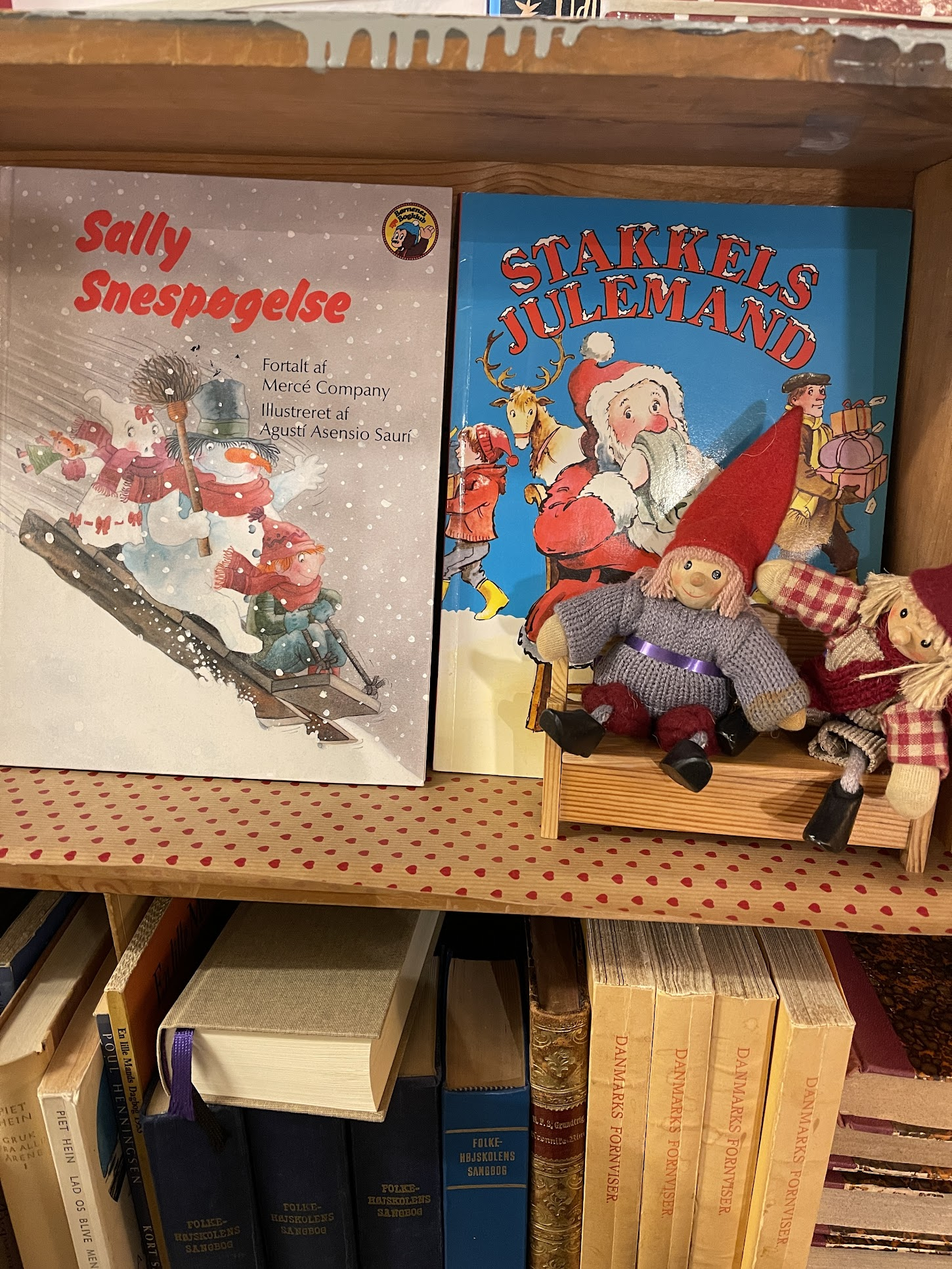
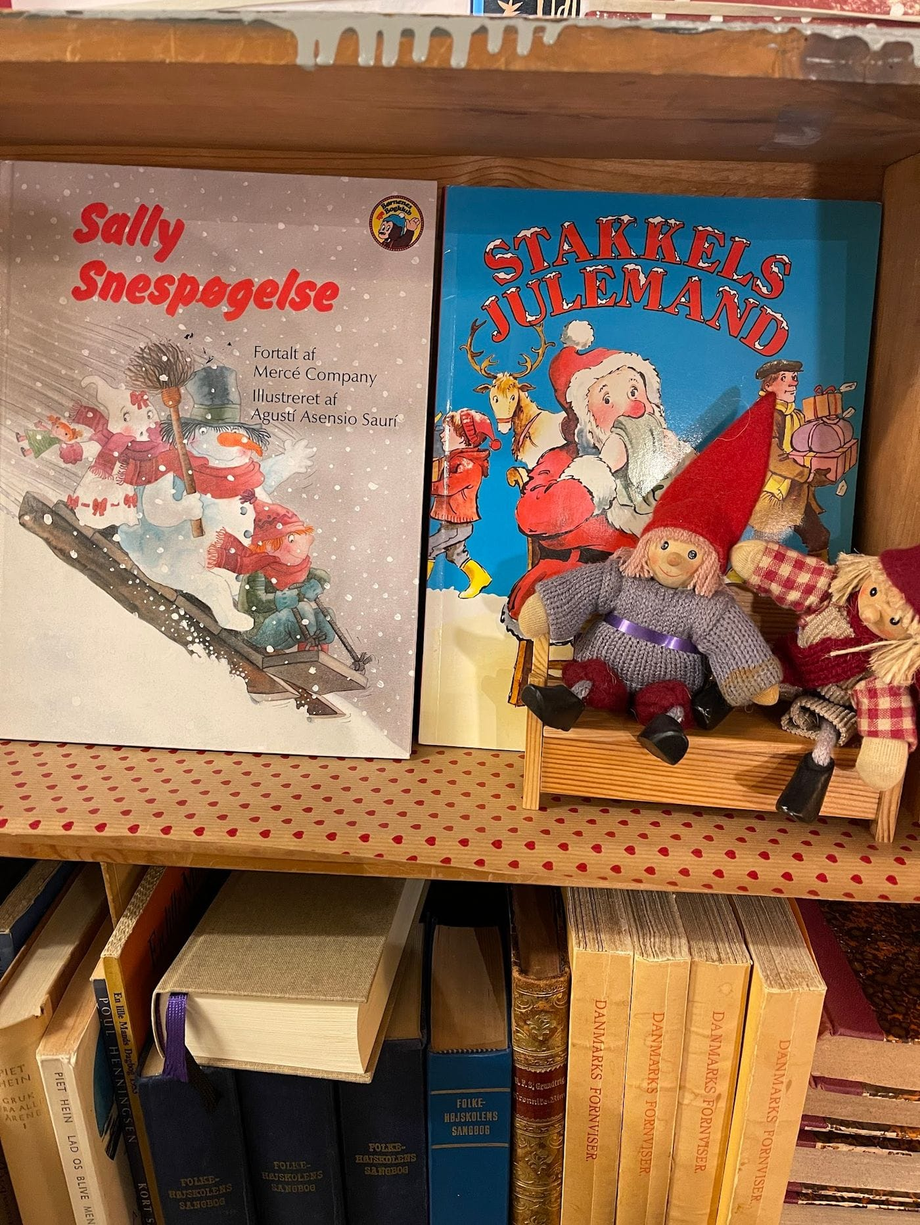
Reduce image file sizes

diff --git a/scripts/compress-photos.js b/scripts/compress-photos.js
@@ -1,0 +1,69 @@
+#!/usr/bin/env node
+/**
+ * Compresses full-size photos in /photos in place.
+ * JPEGs are re-encoded at quality 80 with mozjpeg.
+ * PNGs are re-encoded at max compression/effort (lossless).
+ * Subdirectories (e.g. thumbnails/) are not touched.
+ *
+ * Usage: node compress-photos.js [--dry-run]
+ *   --dry-run  Report file sizes without modifying anything
+ */
+
+import sharp from 'sharp';
+import { readdir, stat, writeFile } from 'fs/promises';
+import { join, extname } from 'path';
+import { fileURLToPath } from 'url';
+
+const __dirname = fileURLToPath(new URL('.', import.meta.url));
+const PHOTOS_DIR = join(__dirname, '../photos');
+const PHOTO_EXTENSIONS = new Set(['.jpg', '.jpeg', '.png', '.webp']);
+
+const dryRun = process.argv.includes('--dry-run');
+
+async function compress(filePath, ext) {
+  const image = sharp(filePath);
+  if (ext === '.png') {
+    return image.png({ compressionLevel: 9, effort: 10 }).toBuffer();
+  } else {
+    return image.jpeg({ quality: 80, mozjpeg: true }).toBuffer();
+  }
+}
+
+async function main() {
+  const entries = await readdir(PHOTOS_DIR, { withFileTypes: true });
+  const photos = entries
+    .filter(e => e.isFile() && PHOTO_EXTENSIONS.has(extname(e.name).toLowerCase()))
+    .map(e => e.name);
+
+  let totalBefore = 0;
+  let totalAfter = 0;
+
+  for (const file of photos) {
+    const filePath = join(PHOTOS_DIR, file);
+    const ext = extname(file).toLowerCase();
+    const { size: sizeBefore } = await stat(filePath);
+    totalBefore += sizeBefore;
+
+    if (dryRun) {
+      console.log(`  ${file} (${(sizeBefore / 1024).toFixed(1)}KB)`);
+      totalAfter += sizeBefore;
+      continue;
+    }
+
+    process.stdout.write(`  ${file} (${(sizeBefore / 1024).toFixed(1)}KB → `);
+    const buf = await compress(filePath, ext);
+    await writeFile(filePath, buf);
+    totalAfter += buf.length;
+    console.log(`${(buf.length / 1024).toFixed(1)}KB)`);
+  }
+
+  const savedMB = ((totalBefore - totalAfter) / (1024 * 1024)).toFixed(1);
+  const beforeMB = (totalBefore / (1024 * 1024)).toFixed(1);
+  const afterMB = (totalAfter / (1024 * 1024)).toFixed(1);
+  console.log(`\nTotal: ${beforeMB}MB → ${afterMB}MB (saved ${savedMB}MB)`);
+}
+
+main().catch(err => {
+  console.error(err);
+  process.exit(1);
+});

diff --git a/scripts/resize-photo.js b/scripts/resize-photo.js
@@ -1,0 +1,61 @@
+#!/usr/bin/env node
+/**
+ * Resizes a single photo in /photos to a specified width.
+ * Optionally converts the file to JPEG.
+ *
+ * Usage: node resize-photo.js <filename> <width> [--to-jpg]
+ *
+ * Examples:
+ *   node resize-photo.js harbor-ice.jpg 800
+ *   node resize-photo.js screenshot.png 1200 --to-jpg
+ */
+
+import sharp from 'sharp';
+import { writeFile, unlink } from 'fs/promises';
+import { join, extname, basename } from 'path';
+import { fileURLToPath } from 'url';
+
+const __dirname = fileURLToPath(new URL('.', import.meta.url));
+const PHOTOS_DIR = join(__dirname, '../photos');
+
+const args = process.argv.slice(2);
+const toJpg = args.includes('--to-jpg');
+const [filename, widthArg] = args.filter(a => !a.startsWith('--'));
+
+if (!filename || !widthArg) {
+  console.error('Usage: node resize-photo.js <filename> <width> [--to-jpg]');
+  process.exit(1);
+}
+
+const width = parseInt(widthArg, 10);
+if (isNaN(width) || width <= 0) {
+  console.error(`Invalid width: ${widthArg}`);
+  process.exit(1);
+}
+
+const ext = extname(filename).toLowerCase();
+const filePath = join(PHOTOS_DIR, filename);
+const image = sharp(filePath);
+const { width: currentWidth } = await image.metadata();
+
+const converting = toJpg && ext !== '.jpg' && ext !== '.jpeg';
+const outFilename = converting ? `${basename(filename, ext)}.jpg` : filename;
+const outPath = join(PHOTOS_DIR, outFilename);
+
+if (currentWidth <= width && !converting) {
+  console.log(`${filename} is already ${currentWidth}px wide — nothing to do.`);
+  process.exit(0);
+}
+
+const label = converting ? `${filename} → ${outFilename}` : filename;
+process.stdout.write(`${label}: ${currentWidth}px → ${width}px ... `);
+
+let pipeline = image.resize(width, null, { withoutEnlargement: true });
+if (toJpg) {
+  pipeline = pipeline.jpeg({ quality: 80, mozjpeg: true });
+}
+
+const buf = await pipeline.toBuffer();
+await writeFile(outPath, buf);
+if (converting) await unlink(filePath);
+console.log('done');

diff --git a/scripts/resize-photos.js b/scripts/resize-photos.js
@@ -1,0 +1,66 @@
+#!/usr/bin/env node
+/**
+ * Resizes full-size photos in /photos to a maximum width of 1400px.
+ * Photos already at or under 1400px wide are skipped.
+ * Subdirectories (e.g. thumbnails/) are not touched.
+ * Files are resized in place, preserving aspect ratio and file type.
+ *
+ * Usage: node resize-photos.js [--dry-run]
+ *   --dry-run  Report oversized photos without modifying them
+ */
+
+import sharp from 'sharp';
+import { readdir, stat, writeFile } from 'fs/promises';
+import { join, extname } from 'path';
+import { fileURLToPath } from 'url';
+
+const __dirname = fileURLToPath(new URL('.', import.meta.url));
+const PHOTOS_DIR = join(__dirname, '../photos');
+const MAX_WIDTH = 1400;
+const PHOTO_EXTENSIONS = new Set(['.jpg', '.jpeg', '.png', '.webp']);
+
+const dryRun = process.argv.includes('--dry-run');
+
+async function main() {
+  const entries = await readdir(PHOTOS_DIR, { withFileTypes: true });
+  const photos = entries
+    .filter(e => e.isFile() && PHOTO_EXTENSIONS.has(extname(e.name).toLowerCase()))
+    .map(e => e.name);
+
+  let resized = 0;
+  let skipped = 0;
+
+  for (const file of photos) {
+    const filePath = join(PHOTOS_DIR, file);
+    const image = sharp(filePath);
+    const { width } = await image.metadata();
+
+    if (width <= MAX_WIDTH) {
+      console.log(`  skip  ${file} (${width}px)`);
+      skipped++;
+      continue;
+    }
+
+    if (dryRun) {
+      console.log(`  over  ${file} (${width}px)`);
+      resized++;
+      continue;
+    }
+
+    process.stdout.write(`  resize  ${file} (${width}px → ${MAX_WIDTH}px) ... `);
+    const buf = await image
+      .resize(MAX_WIDTH, null, { withoutEnlargement: true })
+      .toBuffer();
+    await writeFile(filePath, buf);
+    console.log('done');
+    resized++;
+  }
+
+  const action = dryRun ? 'would resize' : 'resized';
+  console.log(`\n${resized} ${action}, ${skipped} already within limit`);
+}
+
+main().catch(err => {
+  console.error(err);
+  process.exit(1);
+});

diff --git a/posts/2024-recap.md b/posts/2024-recap.md
@@ -51,11 +51,11 @@ And now, the most important update of the year...
 
 This has been a dream ever since I was a kid. Fishing was my jam, and this is my first 99 ever in OSRS. And not only that, but I got both fishing pets, the fish sack, and the golden tench! Look how fashionable I am!
 
-![Image](https://raw.githubusercontent.com/jordanfuzz/blog/master/photos/fishing-show-off-1.png)
+![Image](https://raw.githubusercontent.com/jordanfuzz/blog/master/photos/fishing-show-off-1.jpg)
 
 I know exactly 2 people will ever read this post, and of those two people, 0 of them will care about this achievement, but this felt great. ❤
 
-![Image](https://raw.githubusercontent.com/jordanfuzz/blog/master/photos/fishing-show-off-2.png)
+![Image](https://raw.githubusercontent.com/jordanfuzz/blog/master/photos/fishing-show-off-2.jpg)
 
 > I was prepared for this. I had my fishing mug.
 
